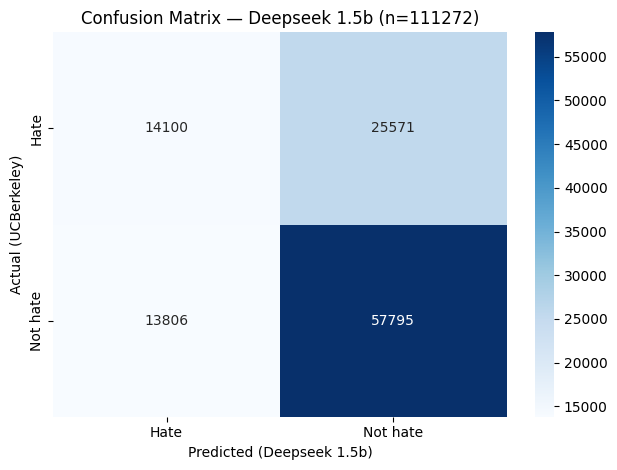
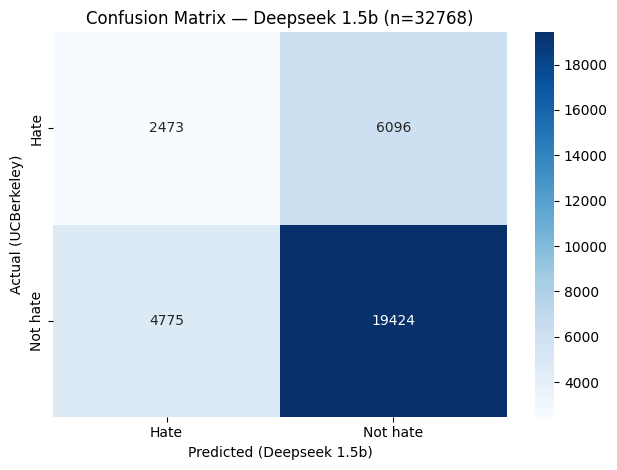
fixed the blog entry after the unique evaluations for messages on the source code

diff --git a/_posts/2026-04-21-hate-speech-analysis-with-deepseek.md b/_posts/2026-04-21-hate-speech-analysis-with-deepseek.md
@@ -24,7 +24,7 @@ The definition is relatively vague, and can be subject to the interpretation of 
 
 Other researchers have pointed out the particular inconsistencies of LLMs when thrown to this task[^1]. 
 
-Without deep diving in a full state-of-the-art analysis (not intended by this humble blog post), I came accross an interesting study[^2] which publishes an interesting dataset which was referenced in previous issues[^3][^4]. The dataset contains 39565 comments annotated by 7912 annotators, and automated classifications of messages that can be considered hate speech.
+Without deep diving in a full state-of-the-art analysis (not intended by this humble blog post), I came accross an interesting study by UC Berkeley DLAB's [^2] which publishes an interesting dataset which was referenced in previous articles by Kennedy, C. J., Bacon, G., Sahn, A., & von Vacano, C. (2020)[^3] and Pratik Sachdeva, Renata Barreto, Geoff Bacon, Alexander Sahn, Claudia von Vacano, and Chris Kennedy (2022)[^4]. The dataset contains 39565 comments annotated by 7912 annotators, and automated classifications of messages that can be considered hate speech.
 
 
 
@@ -36,9 +36,9 @@ One of the main focuses of this test was to proof if a local instance of an open
 
 I tested the scripts with my desktop GPU which has 12GB of VRAM. This allowed me running deepseek-r1 up to the 14b model. For practical reasons (such as inference time) I ended up using the 8b and 1.5b models. The 1.5b would be extremely optimal. It can even run on a [Raspberry Pi](https://dev.to/jeremycmorgan/running-deepseek-r1-locally-on-a-raspberry-pi-1gh8) and other cheap hardware that would be awesome for researching on a home lab. More on the results with that later.
 
-I went with a vast.ai instance with 12GB graphics card for the 135,556 combined annotated messages. The only reason for using a cloud service was not to have a desktop computer burning for three weeks.
+I went with a vast.ai instance with 12GB graphics card for the 135,556 combined annotated messages, realizing later that the predicted value on the messages was the same regardless the different annotators, and that I had to single out the unique 39565 messages.
 
-In all cases the models where run in a local ollama instance.
+In all cases the models where run in an Ollama instance.
 
 #### The test(s)
 
@@ -85,28 +85,60 @@ Here the confusion matrixes:
 And the numbers behind this:
 
 ```console
-Deepseek 1.5b — Precision: 0.5053 | Recall: 0.3554 | F1: 0.4173
-Deepseek 8b — Precision: 0.5221 | Recall: 0.9668 | F1: 0.6781
+Deepseek 1.5b — Precision: 0.3412 | Recall: 0.2886 | F1: 0.3127
+Deepseek 8b — Precision: 0.3893 | Recall: 0.9091 | F1: 0.5452
 ```
 
-A quick glimpse to the confusion matrixes are informative enough, and the numbers don't lie. The 1.5b model failed to provide relevant results, so I will focus on the 8b one. For some reason I didn't dig into, the 1.5b model also failed to evaluate many of the messages (hence the n=111272).
-According to the results, DeepSeek-R1 8b (with the aforementioned prompt) did identify many more messages that were considered hate speech than the manual annotators, creating a vast amount of false positives. Therefore the precision is really low (0.5221). The high sensitivity of DeepSeek-R1 8b (0.9668) can be explained because it was able to detect almost all the relevant hate speech messages. However, it did retrieve many that the original dataset predictions did not find hateful enough.
+A quick glimpse to the confusion matrixes are informative enough, and the numbers don't lie. The 1.5b model failed to provide relevant results, so I will focus on the 8b one. For some reason I didn't dig into, the 1.5b model also failed to evaluate many of the messages (hence the n=32768).
+According to the results, DeepSeek-R1 8b (with the aforementioned prompt) did identify many more messages that were considered hate speech than the UC Berkeley model, creating a vast amount of false positives. Therefore the precision is really low (0.3893). The high sensitivity of DeepSeek-R1 8b (0.9091) can be explained because it was able to detect the majority of the relevant hate speech messages. However, it did retrieve many that the original dataset predictions did not find hateful enough.
 
-The last point is interesting. I had the patience to evaluate some of the messages behind the scenes that were catalogued as [false positives](https://github.com/Data-digression/deepseek-hate-speech-analysis/blob/main/false_positives_deepseek8b.csv) in this test. The false positive file contains the message_id, the actual message, the scoring predicted on the original dataset and the results after evaluating the prompt by DeepSeek-R1 in 1.5b and 8b. It also contains the explanation on "why was this considered hate speech on the LLM evaluation". I did not look at the all the false positives listed on this file, but many of them are absolute examples of hate speech messages *according to the criteria used on this exercise*. 
+The last point is interesting. I had the patience to evaluate some of the messages behind the scenes that were catalogued as [false positives](https://github.com/Data-digression/deepseek-hate-speech-analysis/blob/main/false_positives_deepseek8b.csv) in this test. The false positive file contains the message_id, the actual message, the scoring predicted on the original dataset and the results after evaluating the prompt by DeepSeek-R1 in 1.5b and 8b. It also contains the explanation on "why was this considered hate speech on the LLM evaluation". I did not look at the all the false positives listed on this file, but many of them are examples of hate speech messages *according to the criteria used on this exercise*. 
 
 And hence the major issue I found on this topic. What is hate speech?
 
 
 Coming back to the alternative prompts tested, as it can be seen in the [notebook](https://github.com/Data-digression/deepseek-hate-speech-analysis/blob/main/testing-deepseek-hate-speech.ipynb), they didn't bring significative changes, although, the least specific the prompt is, the more similar to the original dataset predictions we appear to get (lowering the amount of false positives). However, those prompts have not been tested thoroughly enough to validate this as a definitive conclusion.
 
+With the prompt 2:
+
+<p float="left">
+  <img src="/_assets/images/2026-04-21-deepseek8-prompt2.png" width="48%" />
+</p>
+
+```console
+Deepseek 1.5b — Precision: 0.3677 | Recall: 0.3664 | F1: 0.3670
+Deepseek 8b — Precision: 0.4149 | Recall: 0.9581 | F1: 0.5791
+```
+
+With the prompt 3:
+
+<p float="left">
+  <img src="/_assets/images/2026-04-21-deepseek8-prompt3.png" width="48%" />
+</p>
+
+```console
+Deepseek 1.5b — Precision: 0.3398 | Recall: 0.3405 | F1: 0.3401
+Deepseek 8b — Precision: 0.4484 | Recall: 0.9149 | F1: 0.6019
+```
 
 ### Conclusions
 
-A positive remark on DeepSeek-R1 with our prompt after evaluating the results is that we can state that it doesn't suffer from false negatives. The sensitivity is high, retrieving a very high proportion of the relevant messages.
+A positive remark on DeepSeek-R1 with our prompt after evaluating the results is that we can state that it doesn't suffer from false negatives. The sensitivity is high, retrieving a high proportion of the relevant messages.
 
 The downside is that the precision is very low. The reason for this being that it triggers a lot of false positives. 
 
 After an analysis on the false positives in the [file](https://github.com/Data-digression/deepseek-hate-speech-analysis/blob/main/false_positives_deepseek8b.csv) I'd say that alternative datasets shall be explored before drawing further conclusions.
+
+Another big elephant in the room is the possibility of using larger models than the DeepSeek-R1 8b. One of the goals was using models that can run on "commodity" hardware. But it seems logic that a more capable setup would outperform the smaller ones.
+
+A relevant point where I fully agree with the UC Berkeley DLAB researchers is not to limit the evaluations with a "True" or "False" categorical classes when evaluating hate speech, but instead having a continuous variable for the prediction. This allows adjusting the thresholds of a potential hate speech recognition system on social media, for instance.
+
+
+#### Future lines of work
+
+- Testing alternative prompts.
+- Using larger models (even SaaS provided ones) to verify the possibility of  better performance with them.
+- Exploring alternative manually or ML labelled datasets to verify the results.
 
 
 ### References
@@ -118,9 +150,3 @@ After an analysis on the false positives in the [file](https://github.com/Data-d
 [^3]: Kennedy, C. J., Bacon, G., Sahn, A., & von Vacano, C. (2020). Constructing interval variables via faceted Rasch measurement and multitask deep learning: a hate speech application. arXiv preprint arXiv:2009.10277.
 
 [^4]: Pratik Sachdeva, Renata Barreto, Geoff Bacon, Alexander Sahn, Claudia von Vacano, and Chris Kennedy. 2022. The Measuring Hate Speech Corpus: Leveraging Rasch Measurement Theory for Data Perspectivism. In Proceedings of the 1st Workshop on Perspectivist Approaches to NLP @LREC2022, pages 83–94, Marseille, France. European Language Resources Association.
-
-
-
-https://github.com/sridhama/llm-offensive-language-detection?tab=readme-ov-file
-https://peerj.com/articles/cs-2911/
-https://www.sciencedirect.com/science/article/pii/S1877050925016461
